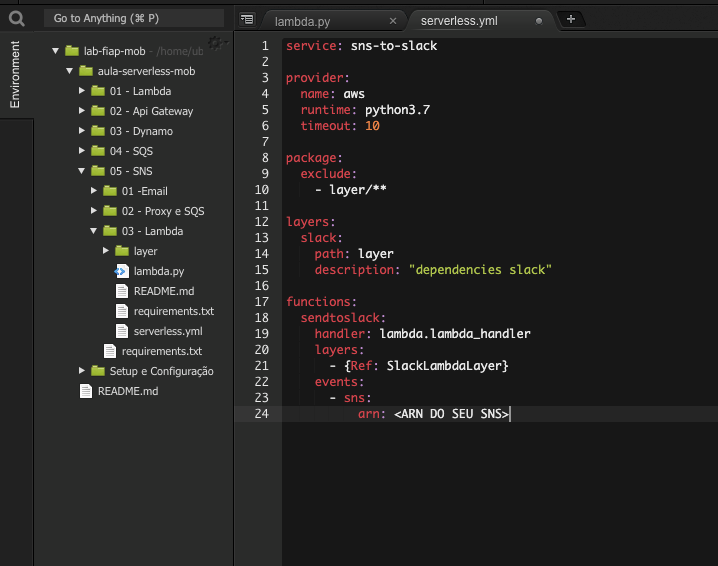
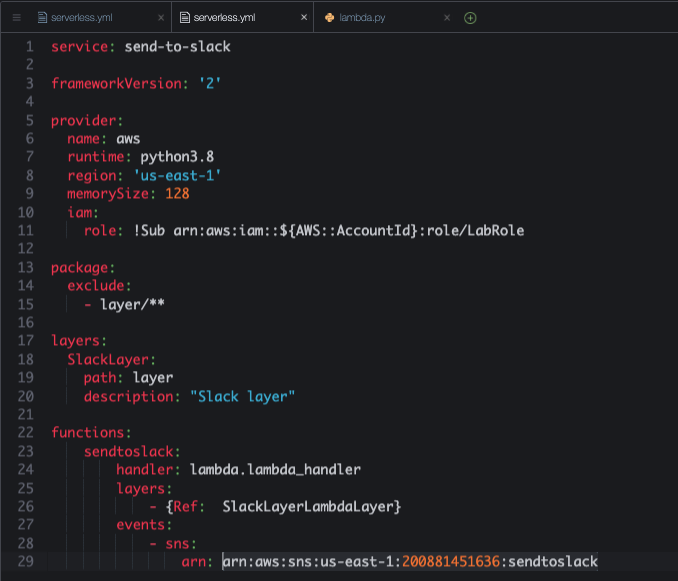
updating SNS

diff --git a/05-SNS/README.md b/05-SNS/README.md
@@ -1,6 +1,6 @@
 # Aula 05.3 - Lambda
 
-1. No terminal do IDE criado no cloud9 execute o comando `cd ~/environment/fiap-serverless-architecture-tutorials/03\ -\ SNS/` para entrar na pasta que fara este exercicio.
+1. No terminal do IDE criado no cloud9 execute o comando `cd ~/environment/fiap-serverless-architecture-tutorials/05-SNS/` para entrar na pasta que fara este exercicio.
 2. Utilize virtualenv para esse exercicio com os comandos:
    ``` shell
       python3 -m venv ~/venv 
@@ -11,14 +11,14 @@
 5. Vamos criar o SNS que será utilizado no exercicio, para isso abra uma aba do console e vá para o serviço SNS. No menu lateral do serviço clique em Tópicos.
    ![](img/sns1.png)
 6. No canto superior direito clique em Criar tópico
-7. Preencha o nome do tópico e clique em Criar Tópico 
+7. Preencha o nome do tópico e clique em Criar Tópico. O nome do tópico será `sendtoslack` do tipo padrão.
    ![](img/sns2.png)
 8. O ARN que será utlizado no código esta na pagina do Tópico que criou
    ![](img/sns3.png)
-9.  Crie um arquivo 'serverless.yml' com o seguinte conteudo
+9.  De volta ao Cloud9, crie um arquivo 'serverless.yml' com o seguinte conteudo da imagem abaixo. Para criar de maneira fácil execute o comando `c9 open serverless.yml`. Não esqueça de salvar após o termino.
 ![img/lambda-01.png](img/lambda-01.png)
-10. Crie um arquivo 'lambda.py' com o seguinte conteudo
-![img/lambda-02.png](img/lambda-02.png)    
+10. Agora Crie um arquivo 'lambda.py' com o seguinte conteudo da imagem abaixo para servir de código para interpretar as mensagens do SNS e enviar para o slack. Para criar de maneira fácil execute o comando `c9 open lambda.py`. Não esqueça de salvar após o termino.
+![img/lambda-02.png](img/lambda-02.png)
 11.  No conteudo de Webclient Token copie e cole o token do dontpad
 12. No channel coloque o seguinte `#atividade-slack`
 13. Execute o comando `sls deploy`
@@ -27,4 +27,3 @@
 16. Preencha o corpo da mensagem com o conteudo desejado e clique em `Publicar mensagem`
     ![](img/sns4.png)
 17. Sua mensagem aparecerá no Slack
-
